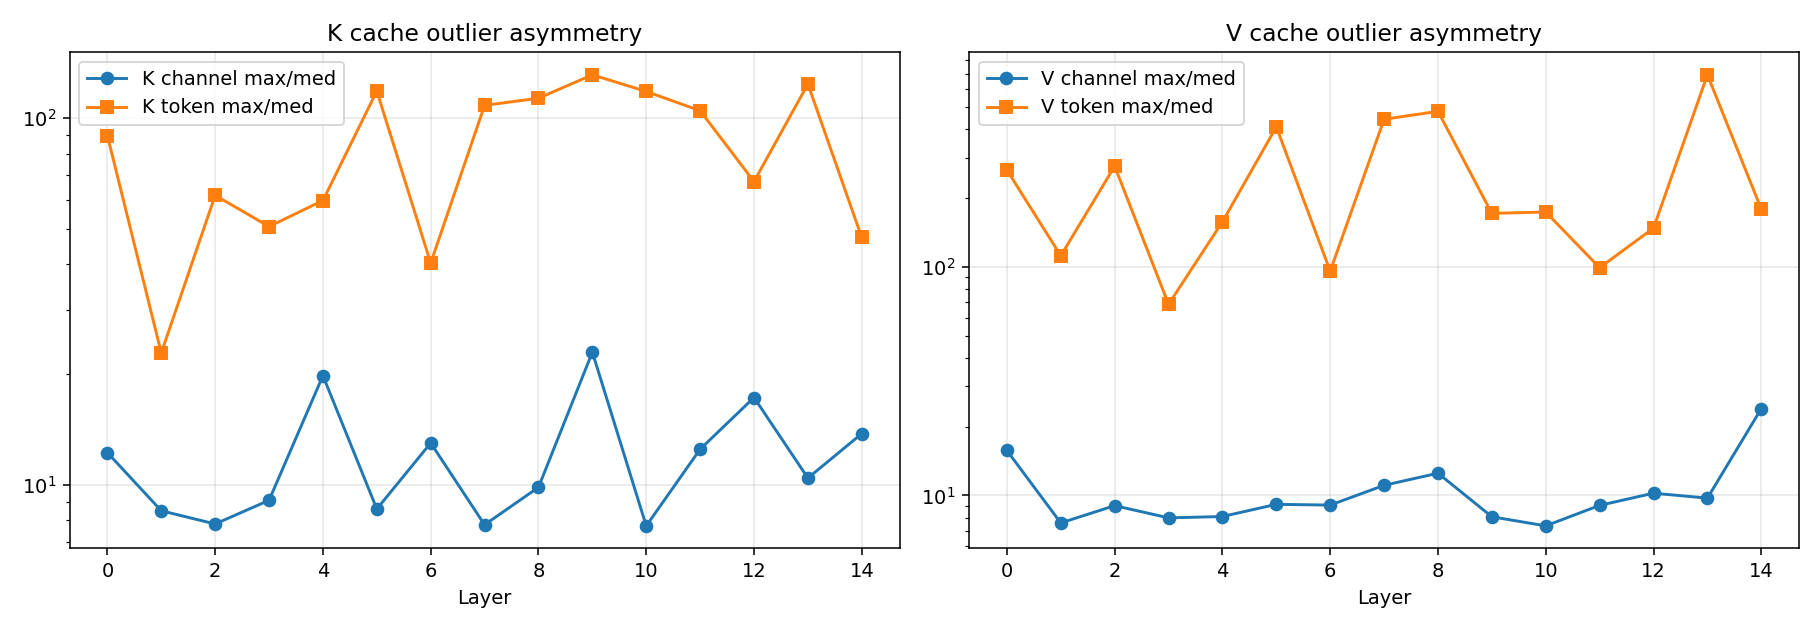
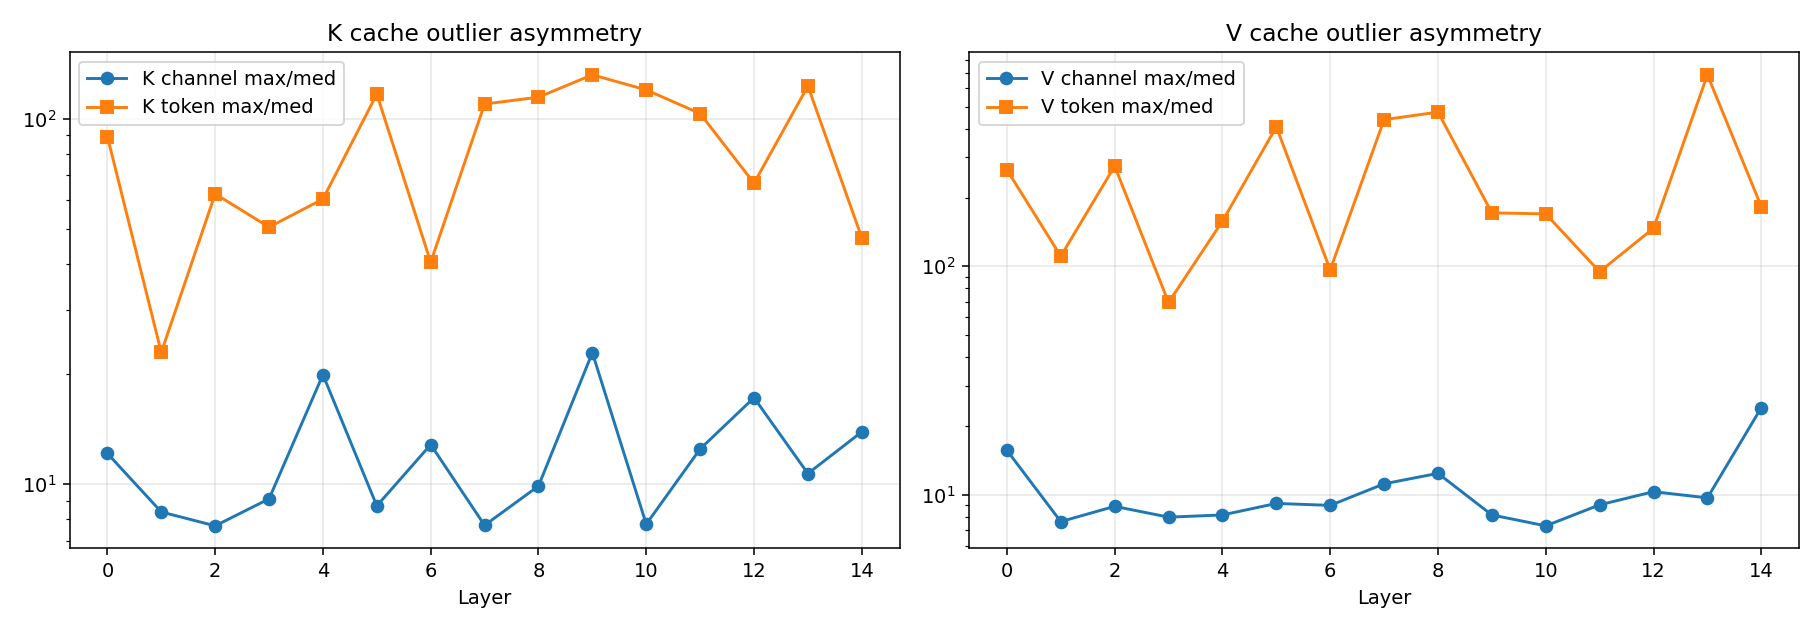
upd gemma

diff --git a/_posts/2026-04-01-Gemma-4-Statistics.md b/_posts/2026-04-01-Gemma-4-Statistics.md
@@ -97,9 +97,9 @@ The lowest single stable-rank values sit around 11 (gate at L14) and 14 (Q at L1
 
 <span style="display:block; height: 0px;"></span>
 
-## Marchenkov-Pastur distribution
+## Marchenko-Pastur distribution
 
-If you take an `out × in` matrix with i.i.d. zero-mean entries of variance σ², and form the sample covariance `(1/N) W^T W` with `N = max(out, in)` and `D = min(out, in)`, the **Marchenko-Pastur theorem** says the eigenvalues of that covariance concentrate on a known interval:
+If you take an $out \times in$ matrix with i.i.d. zero-mean entries of variance $\sigma^2$, and form the sample covariance $(1/N) W^T W$ with $N = max(out, in)$ and $D = min(out, in)$, the **Marchenko-Pastur theorem** says the eigenvalues of that covariance concentrate on a known interval:
 
 ```python
 def mp_edges(q, sigma2):
@@ -115,7 +115,7 @@ def mp_density(lam, q, sigma2):
     return out
 ```
 
-The bulk shape depends only on `q = D/N`. Anything above `λ_+ = σ²(1+√q)²` is structured signal that training carved out beyond what i.i.d. noise would produce. Counting those "signal" eigenvalues gives a cleaner notion of effective rank than energy heuristics.
+The bulk shape depends only on $q = D/N$. Anything above $λ_+ = \sigma^2(1+\sqrt{q})^2$ is structured signal that training carved out beyond what i.i.d. noise would produce. Counting those "signal" eigenvalues gives a cleaner notion of effective rank than energy heuristics.
 
 For Gemma 4's weights, this is what we see:
 
@@ -123,11 +123,11 @@ For Gemma 4's weights, this is what we see:
 
 The story splits into three regimes:
 
-**Random-like.** MLP `up` and `down` show a textbook MP bulk. About 6% of eigenvalues poke above the upper edge, carrying ~15–17% of energy. The rest of the spectrum is statistically indistinguishable from a trained random matrix.
+**Random-like.** MLP `up` and `down` show a textbook MP bulk. About 5-7% of eigenvalues poke above the upper edge, carrying ~15–20% of energy (`up`: 15%, `down`: 20%). The rest of the spectrum is statistically indistinguishable from a trained random matrix.
 
 **Bulk-and-spikes.** MLP `gate`, attention `K`, and `O` show an MP-shaped bulk plus a moderate signal layer above. K and O carry ~27–29% of their energy in spikes; gate ~23%.
 
-**Heavy-tailed.** Attention `Q` and `V` violate the MP assumption outright. The bulk doesn't fit — it's pinched far left of the MP curve, with a fat upper tail. This is a hallmark of training pushing the entry distribution itself away from Gaussian, in a way that produces a power-law eigenvalue density.
+**Heavy-tailed.** Attention `Q` and `V` both sit above the MP edge, but the violation differs in kind. For **Q**, the bulk itself is deformed: on average 12% of eigenvalues fall *below* the MP lower edge $λ_-$ (where the law predicts zero), meaning mass has shifted toward zero rather than spreading across $[λ_-, λ_+]$. For **V**, the bulk respects $λ_-$ -- only ~1% of eigenvalues land below it -- but V carries a few extremely dominant directions: the top eigenvalue averages 7× the noise floor. So Q's violation is bulk-deforming; V's is tail-confined.
 
 A per-layer view of "signal eigenvalues as a fraction of min dim" makes the regime split obvious:
 
@@ -170,7 +170,7 @@ Per-role mean α values:
 | down | 4.64 | layer 13 (α=2.85) | Approaching random |
 | up | **5.04** | layer 14 (α=2.89) | Random-like |
 
-So **V is the most heavy-tailed role on average**, but with the smallest spike count (2.2% of D) and lowest signal energy (10.4%). This is a different shape from Q: V has a continuous power-law tail rather than discrete dominant directions. Its top eigenvalue is large, but the tail decays smoothly without a clear "spike vs bulk" separation. That makes V a poor fit for hard low-rank truncation — there's no natural cutoff.
+So **V is the most heavy-tailed role on average**, but with the smallest signal count (2.2% of eigenvalues above $λ_+$) and lowest signal energy (10.4%). As established in §3, V's bulk respects the MP lower boundary; the violation is tail-confined -- a handful of extreme outliers reaching 7× the noise floor on average, sitting atop an otherwise passable MP bulk. That makes V a poor fit for hard low-rank truncation: those outliers carry only ~10% of energy, leaving 90% in the bulk with no natural cutoff.
 
 Q on the other hand has both a heavy tail *and* many spikes — a regime where the model has learned both a few dominant directions and a heavy continuum below them.
 
@@ -192,17 +192,28 @@ L14 is the most-trained layer for **Q, gate, and up** simultaneously. K's most-h
 
 ## Cross-layer subspace structure
 
-Singular value spectra describe one matrix at a time. To see how layers relate to each other, the natural object is the *subspace* each weight defines in the hidden space $R^{1536}$. For each Q projection, take the top-64 right singular vectors (an orthonormal basis for the dominant input subspace), then compare bases pairwise via mean squared cosine of principal angles:
+Singular value spectra describe one matrix at a time. To see how layers relate to each other, the natural object is the *subspace* each weight defines in the hidden space $R^{1536}$. For each Q projection, take the top-64 right singular vectors (an orthonormal basis for the dominant input subspace), then compare bases pairwise via mean cos² of principal angles. Both the unweighted version, $mean(cos^2θ_l)$, and a $\sigma^2$-weighted variant (which downweights noise directions by the geometric mean of the corresponding singular values) tell the same story:
 
-![Q-projection subspace similarity](/assets/img/07_subspace_q.png)
+![Q-projection subspace similarity](/assets/img/11_subspace_q_quantified.png)
 
-What stands out:
+Visually the structure is faint, but it sharpens once you anchor against the random baseline. Two random 64-dim subspaces in $R^{1536}$ have expected mean cos² of $64/1536 \approx 0.042$. So 0.042 is the floor; off-diagonal cells should be read as multiples of it.
 
-- **A block-diagonal pattern at sliding layers**: nearby sliding layers use highly aligned input subspaces. The sliding pattern is doing quasi-local processing on a stable axis.
-- **Globals are subspace outliers**: layers 4, 9, 14, 19, 24, 29, 34 stand apart from their neighbours. Their input subspaces are not just rotated versions of nearby slidings — they live in genuinely different directions.
-- **A discontinuity at layer 15** (the KV-share boundary): the second half of the model uses noticeably different Q subspaces from the first half.
+| Pair type | Unweighted | $\sigma^2$-weighted | × baseline |
+|---|---|---|---|
+| sliding ↔ adjacent sliding (\|i-j\|=1) | **0.157** | **0.182** | 3.8× |
+| global ↔ adjacent sliding | 0.118 | 0.133 | 2.8× |
+| sliding ↔ far sliding (\|i-j\|≥5) | 0.045 | 0.046 | 1.1× |
+| within first half (0..14, off-diag mean) | 0.063 | 0.066 | 1.5× |
+| within second half (15..34, off-diag mean) | 0.076 | 0.083 | 1.8× |
+| **across halves (first ↔ second)** | **0.042** | **0.043** | **1.0× — exactly random** |
 
-The overall picture: **Gemma 4 has structured, role-specific subspaces, not a continuous evolution across depth**. Globals reach into different parts of the hidden space than slidings. The KV-share boundary is also a subspace boundary.
+Three concrete findings, in order of strength:
+
+- **The KV-share boundary at layer 15 is a sharp subspace boundary.** Cross-half mean overlap sits *exactly* at the random baseline. The first and second halves of the decoder use Q-subspaces that are essentially uncorrelated — the second half is not a continuation of the first, it's pulling on genuinely different directions of the hidden space.
+- **Local sliding alignment is real but short-range.** Adjacent slidings share 3.8× more subspace energy than random; five layers away, alignment is back at baseline. The "block" of sliding structure is a 1-2 layer band, not a wide block of similar layers.
+- **Globals are mildly less aligned with their neighbours than slidings are with each other** — 2.8× vs 3.8×. They're outliers, but only modestly so.
+
+The $\sigma^2$-weighted variant agrees with the unweighted in direction and magnitude (slightly amplified differences), so the structure isn't an artifact of including noise directions in the basis.
 
 <span style="display:block; height: 0px;"></span>
 
@@ -232,20 +243,61 @@ A note on attention sinks: Gemma 4 puts only **0.4%** of attention mass on the f
 
 <span style="display:block; height: 0px;"></span>
 
+## Cross-layer KV cache overlap
+
+Earlier we looked at how Q *weights* relate across layers. The natural compression-side analogue is: do the K and V *caches* — the actual activation tensors stored at inference time — share subspace structure across layers? If they did, you could store one shared basis per cache type and per-layer coefficients, replacing `n × T × head_dim` floats with `head_dim × k + n × T × k` (~88% saving for typical `k`).
+
+For each pair of computing layers `(i, j)` with the same head_dim, take the cache tensor `[T, head_dim]` from a forward pass on the realistic prose, compute the top-`k` PCA basis of layer `i`'s cache, then measure what fraction of layer `j`'s cache variance lives in that basis. This is asymmetric (anchor → query) and directly compression-relevant: if `i`'s basis explains 90% of `j`, you can store `j` in `i`'s subspace at 10% reconstruction error.
+
+Using $k = 32$ for sliding (head_dim=256, ≈12.5% — close to the average MP signal count of ~16) and $k = 48$ for global (head_dim=512, ≈9.4% — close to the average MP signal count of ~41):
+
+![Cross-layer KV cache activation overlap](/assets/img/12_kv_activation_overlap.png)
+
+The picture is decisively negative for naive cross-layer factorisation:
+
+- **Diagonals** (a layer's own basis explaining its own cache) capture **53–75%** of variance — the expected ceiling at this `k`.
+- **Off-diagonals** (one layer's basis explaining another's cache) capture only **8–23%**, with most pairs sitting in 0.10–0.15. That's 1.5–2× the random baseline (random projections from a `k`-dim subspace into a `head_dim`-dim cache would explain `k/head_dim = 12.5%` or `9.4%` of variance for pure-noise data) — meaningfully above noise, but nowhere near "shareable."
+- **Best anchor's mean variance explained across the group: 0.18–0.29.** Not enough to share without losing most of the cache.
+
+So K and V caches do **not** live in a shared subspace across layers. Each computing layer has carved out its own ~k-dim slice of head_dim space, and those slices are nearly orthogonal between layers. **Cross-layer cache factorisation is ruled out** as a compression scheme on Gemma 4 — the only path to additional KV memory savings is per-layer (rank truncation calibrated on activations, or per-token / per-channel quantization as already discussed).
+
+This dovetails with the earlier finding: combined with the sharp Q-subspace discontinuity at the layer-15 KV-share boundary, it means both the *weights* and the *activations* of different layers are pulling on genuinely different directions. The model uses depth to access different parts of representation space, not to refine the same directions over and over. That's bad news for compression schemes that bet on cross-layer redundancy, and good news for understanding what the model is actually doing with its depth.
+
+<span style="display:block; height: 0px;"></span>
+
 ## Opportunities for compression
 
 The RMT lens collapses three observations into a per-role recipe:
 
 | Role | Regime | Recommendation |
 |---|---|---|
-| MLP `up`, `down` | Random-like (α≈5) | Either Gavish-Donoho hard-thresholded SVD, or **spike + sketch**: keep the ~100 signal eigenvalues exactly, replace the MP bulk with a seeded random matrix of matching σ². The bulk is statistically reproducible noise — doesn't need to be stored verbatim. |
+| MLP `up`, `down` | Random-like (α≈5) | Either Gavish-Donoho hard-thresholded SVD, or **spike + sketch**: keep the ~100 signal eigenvalues exactly, replace the MP bulk with a seeded random matrix of matching $\sigma^2$. The bulk is statistically reproducible noise — doesn't need to be stored verbatim. |
 | MLP `gate` | Bulk-and-spikes | Standard rank-truncated SVD around the MP threshold (~75 signal directions). Quantize residuals. |
 | Attention `K`, `O` | Bulk-and-spikes | Same; K is well-suited to **per-token quantization** (KIVI inverted). |
-| Attention `Q`, `V` | Heavy-tailed (HTSR) | **Avoid pure low-rank truncation** — for different reasons. Q has both spikes and a heavy continuum, so any cutoff sacrifices learned directions; V has a smooth power-law tail with no spike/bulk separation, so there's no natural cutoff at all. Use quantization-only or activation-aware decomposition (ASVD/FWSVD). |
+| Attention `Q`, `V` | Heavy-tailed (HTSR) | **Avoid pure low-rank truncation.** No clean noise floor — every cut loses signal. Use quantization-only or activation-aware decomposition (ASVD/FWSVD). |
 | Layer 14 (especially Q, gate, up) | Most-trained | Reserve highest precision; do not aggressively reduce rank. |
 | RMSNorm weights | Outlier-heavy | Keep in bf16/fp16. They cost nothing. |
-| KV cache (V) | Shannon eff-rank ~55–62% of head_dim; ~15–40 signal eigenvalues above MP edge | Low-rank gain achievable, but calibrate on activations and pick the cut by reconstruction-error sweep. |
-| KV cache (K) | Token-aligned outliers | Per-token quantization (against KIVI's published recipe). |
+| KV cache (V) | Shannon eff-rank ~55–62% of head_dim; ~15–40 signal eigenvalues above MP edge; **no cross-layer overlap** | Per-layer rank truncation calibrated on activations; reconstruction-error sweep to pick the cut. Cross-layer factorisation does not work. |
+| KV cache (K) | Token-aligned outliers; **no cross-layer overlap** | Per-token quantization (against KIVI's published recipe). Cross-layer factorisation does not work. |
 
+Two specific experiments would close the loop:
+1. **Spike + sketch on a representative MLP up/down** — pick one layer, factor out the top-100 eigenpairs, replace the bulk with a seeded random matrix of the right scale, measure end-to-end loss change. The MP fit is clean enough that this should *almost* work without finetuning.
+2. **HTSR quality control** — fit α at every layer, refuse low-rank for any matrix with α < 4. This is a 100-line guard rail against destroying training signal in heavy-tailed weights.
+
+<span style="display:block; height: 0px;"></span>
+
+## TL;DR
+
+Five findings:
+
+1. **Weights are near-Gaussian**. The exception is RMSNorm scale — outliers reaching ×900 — keep those in full precision regardless of what you do to projections.
+
+2. **Three spectral regimes**. MLP `up`/`down` are random-like (5–7% of eigenvalues above the noise floor, carrying 15-19% of energy). `gate`, `K`, `O` have a clean MP bulk plus moderate signal (23–29% signal energy). `Q` and `V` are heavy-tailed but differently: Q's bulk is deformed — 12% of eigenvalues fall *below* the MP lower edge, where the law predicts zero; V's bulk respects the MP boundary but carries a handful of extreme outliers (top eigenvalue 7× the noise floor on average).
+
+3. **Layer 14** is the most-trained layer for Q, gate, and up simultaneously. Reserve highest precision here.
+
+4. **KV cache**. K outliers are token-aligned, not channel-aligned as KIVI assumes — per-token K quantization is correct for this model. V's weight spectrum is a misleading proxy for cache compressibility: V activations span 55–62% of head_dim at runtime despite the weight's low stable rank (~23). Calibrate on activations, not weights.
+
+5. **No cross-layer sharing**. Q subspaces are orthogonal across the layer-15 KV-share boundary (mean cos² at the random baseline 0.042). K and V caches are similarly orthogonal across layers — cross-layer factorisation is ruled out.
 
 <span style="display:block; height: 0px;"></span>
